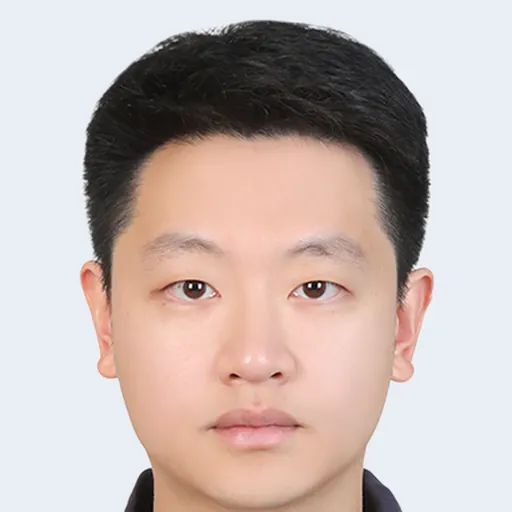
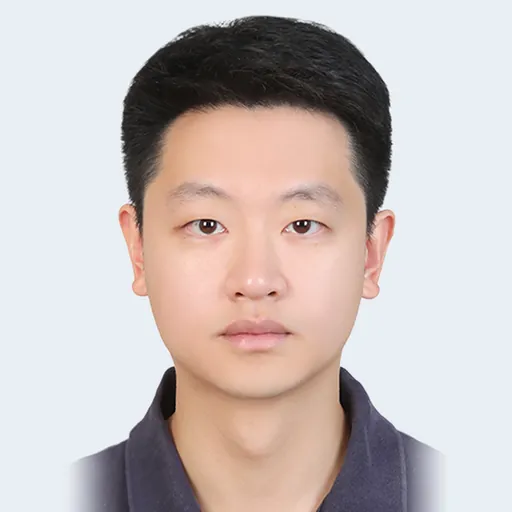
Byungyeon Yun back to the shared framing
Enlarged 1.54x to hide the fade at his sides, his passport photo became a
giant close-up, which the client called ridiculous. He comes off the
exceptions; the tile is byte for byte what it was this morning, and the
sides fade until a looser photo arrives.

Claude-Session: https://claude.ai/code/session_01XG348wN5ByY34urU5UZMf6

diff --git a/tools/cutout-headshots.py b/tools/cutout-headshots.py
@@ -142,24 +142,25 @@ Where it landed in September 2026:
 Andrew's crown stops about 3% below the top rather than 4%: the reach and the headroom
 between them use the whole of REACH_DROP, and the report says so.
 
-THE EXCEPTIONS are three photographs too tight for any of this, each enlarged past the limit
+THE EXCEPTIONS are two photographs too tight for any of this, each enlarged past the limit
 because the client chose a larger face over a fade (October 2026), with the trade shown on a
 sheet beside a normally framed tile:
-- Byungyeon's passport photo cuts the shoulders 18% in from both sides: 1.54x, with the eye
-  line 18% lower so the tile does not cut off his hair.
 - Nicolle's selfie cuts through her hair at the left, which THE CROP clears at 1.35x.
 - Ryan's is cut at the hairline and across the chest: 1.55x. A 1.29x framing that grounded
   him by stretching reached his jaw, which is not a trade this makes on someone's face;
   enlarging stretches nothing. (Filling the tile this way was declined once, before the
   fades were weighed against it.)
-Each is listed in ENLARGED, and a looser photograph makes its entry unnecessary.
+Each is listed in ENLARGED, and a looser photograph makes its entry unnecessary. Byungyeon's
+passport photo cuts the shoulders 18% in from both sides and was enlarged the same way, 1.54x;
+in a passport photo that read as a giant close-up, so it was taken back out, and his sides
+fade. His crown stops about 3% below the top rather than 4%, as Andrew's does.
 
 THE EDGE FADE is what is left: wherever a photograph's own edge still cuts through the
 person, the figure fades to nothing over EDGE_FADE as it approaches that cut. The fade is
 measured from the cut itself — the stretch of the border the matte actually touches — not
 from the whole edge, so a photo cut at the shoulder does not also fade the cheek above it.
 Before the stretch and the reach, nine photos faded like this, and they looked different
-from everyone else. Since October 2026 none does: Allison's is cropped, and Byungyeon's,
+from everyone else. Since October 2026 only Byungyeon's sides do: Allison's is cropped, and
 Nicolle's and Ryan's are THE EXCEPTIONS. Before that, two shared fades were tried to hide
 the fading few, and both went:
 - A single vignette tuned so every one of those cuts fell where it had already faded
@@ -215,10 +216,11 @@ HEADROOM = 0.04   # THE HEADROOM: the least room between the crown and the tile'
 # 6 October 2026), because the fade these photographs otherwise need was judged worse than a
 # face larger than everyone else's. Each replaces REACH_ZOOM, and REACH_DROP where given,
 # for that person, and the reach and the headroom still take the least that removes the fade
-# and keeps the crown in. Byungyeon's needs the lower eye line too: enlarged 1.54x with it
-# held at 6%, the tile cut 8% off the top of his hair. Remove an entry when a looser
-# photograph arrives: it will not need it.
-ENLARGED = {'byungyeon-yun': {'zoom': 1.6, 'drop': 0.2}, 'nicolle-desilva': {'zoom': 1.4}, 'ryan-baker': {'zoom': 1.6}}
+# and keeps the crown in. Remove an entry when a looser photograph arrives: it will not need
+# it. Byungyeon's was one for an hour: enlarged 1.54x with the eye line 18% lower so the tile
+# kept his hair, his passport photo became a giant close-up the client called ridiculous, and
+# the fade at his sides was the lesser evil.
+ENLARGED = {'nicolle-desilva': {'zoom': 1.4}, 'ryan-baker': {'zoom': 1.6}}
 
 
 def pictured():

diff --git a/wordpress-handoff/sections/leadership.md b/wordpress-handoff/sections/leadership.md
@@ -124,10 +124,11 @@ empty tile and a photographed one sit on one colour.
 Do not re-crop them — no Media Library "crop to square", no theme `object-position`. The
 framing is what makes photographs by thirty-odd different photographers read as one team, and
 it is already done. They are 6–36 KB each. A photograph that stops a little short of where
-the framing wants it is stretched or enlarged within limits. Three photographs too tight for
-those limits (Byungyeon Yun's, Nicolle DeSilva's and Ryan Baker's) are enlarged further, by
-the client's choice, rather than fade where the photo ends; no tile fades today. All of it is
-baked into the file, not an effect to reproduce.
+the framing wants it is stretched or enlarged within limits. Two photographs too tight for
+those limits (Nicolle DeSilva's and Ryan Baker's) are enlarged further, by the client's
+choice, rather than fade where the photo ends. One still fades: Byungyeon Yun's passport photo,
+at its sides, until a looser original replaces it. All of it is baked into the file, not an
+effect to reproduce.
 
 They are made in two steps, and the split is on purpose. `tools/cutout-headshots.py`
 does the slow part once — a matting model, face and eye detection, the framing — and
